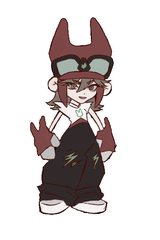
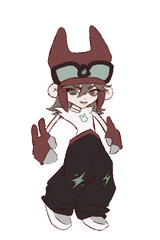
Artist's jump frames; hospital: drowsy just-woken face, captions low like subtitles (local)

Changed region(s): [[0.1875, 0.0583, 0.7812, 0.9625], [0.4375, 0.7, 0.5625, 0.7875]]

diff --git a/ArtSource/Story/make_hospital.py b/ArtSource/Story/make_hospital.py
@@ -10,7 +10,8 @@ import subprocess
 from io import BytesIO
 from pathlib import Path
 
-from PIL import Image
+import numpy as np
+from PIL import Image, ImageDraw
 
 HERE = Path(__file__).parent
 OUT = HERE.parent.parent / "Assets/Story/Art/Ending_Hospital.png"
@@ -19,6 +20,27 @@ BLANKET = re.compile(r'\s*<path d="M780 640[^>]*/>')
 PATIENT = re.compile(r'\s*<ellipse cx="760"[^>]*/>\s*<path d="M708 575[^>]*/>|\s*<path d="M742 588[^>]*/>')
 # Pulled up over the player's lap.
 NEW_BLANKET = '<path d="M672 668 C700 640 790 628 880 632 C1000 600 1200 590 1390 640 L1390 700 L672 700 Z" fill="#d7e9f2" stroke="#3c4645" stroke-width="7" stroke-linejoin="round"/>'
+SKIN, LINE = (243, 231, 227), (63, 16, 8)
+
+
+def drowsy(player):
+    """Just woken, worn out, relieved: heavy half-closed lids over the eyes, and a small tired
+    mouth instead of the smirk. Coordinates are in Player_Cutout.png."""
+    a = np.asarray(player).copy()
+    for (x0, x1, top, lid) in ((98, 121, 161, 169), (153, 171, 164, 171)):
+        mask = Image.new("L", player.size)
+        ImageDraw.Draw(mask).polygon([(x0, top), (x1, top), (x1, lid), ((x0 + x1) / 2, lid + 1), (x0, lid)], fill=255)
+        m = np.asarray(mask) > 0
+        a[m, :3] = (228, 210, 208)  # lid: a shade darker than the face
+    player = Image.fromarray(a)
+    d = ImageDraw.Draw(player)
+    for (x0, x1, lid) in ((98, 121, 169), (153, 171, 171)):
+        d.line([(x0, lid - 1), ((x0 + x1) / 2, lid + 1), (x1, lid)], fill=LINE, width=3, joint="curve")
+    d.rectangle([125, 189, 151, 202], fill=SKIN)
+    d.line([(133, 197), (138, 198), (143, 197)], fill=LINE, width=2, joint="curve")
+    return player
+
+
 # Hat to waist in Player_Cutout.png, and where it goes (in the 1920x1080 drawing).
 CROP_ROWS, TOP, CENTRE_X, HEIGHT = 300, 330, 765, 330
 
@@ -38,7 +60,7 @@ def render(text):
 
 room, blanket = render(room_svg), render(blanket_svg)
 s = W * UP / 1920
-player = Image.open(HERE / "Player_Cutout.png").convert("RGBA")
+player = drowsy(Image.open(HERE / "Player_Cutout.png").convert("RGBA"))
 player = player.crop((0, 0, player.width, CROP_ROWS))
 k = HEIGHT * s / CROP_ROWS
 player = player.convert("RGBa").resize((round(player.width * k), round(CROP_ROWS * k)), Image.LANCZOS).convert("RGBA")

diff --git a/ArtSource/Story/make_characters.py b/ArtSource/Story/make_characters.py
@@ -71,8 +71,18 @@ for w in walk:
     canvas.alpha_composite(big, (round(FEET[0] - centre * scale), round(FEET[1] - ground * scale)))
     walk_frames.append(canvas)
 save(walk_frames, "Player", "Player_Walk")
-# Played once, holding the last frame: push off, stretch, float, fall.
-save([pose(1.1, 0.88), pose(0.9, 1.12), pose(0.97, 1.04), pose(1.0, 1.0, -3)], "Player", "Player_Jump")
+# The artist's jump (Jump/Jump_0..3): crouch, launch, peak, reaching down to land. Played once,
+# holding the last frame while falling. The physics already moves the body up and down, so each
+# frame keeps the head where the standing pose has it and only the body and legs change.
+jump_frames = []
+for i in range(4):
+    j = Image.open(HERE / f"Jump/Jump_{i}.png").convert("RGBA")
+    j = j.crop(j.getbbox())
+    big = resize(j, j.width * scale, j.height * scale)
+    canvas = Image.new("RGBA", CANVAS)
+    canvas.alpha_composite(big, (round(FEET[0] - hat_x(j) * scale), FEET[1] - BODY))
+    jump_frames.append(canvas)
+save(jump_frames, "Player", "Player_Jump")
 pale = tint(src, (170, 190, 235), 0.25)
 save([pose(1.04, 0.94, 0, 0, d, pale) for d in (-4, 4, -3, 3)], "Player", "Player_Scare")
 

diff --git a/Assets/Story/Scripts/EndingDirector.cs b/Assets/Story/Scripts/EndingDirector.cs
@@ -414,7 +414,8 @@ public class EndingDirector : MonoBehaviour
             t.gameObject.SetActive(false);
         box.gameObject.SetActive(false);
 
-        captionText = Label(root.transform, "Caption", font, 44, TextAnchor.MiddleCenter, new Vector2(0.1f, 0.4f), new Vector2(0.9f, 0.6f));
+        // Low on the screen, like subtitles, so it never sits on a face.
+        captionText = Label(root.transform, "Caption", font, 44, TextAnchor.MiddleCenter, new Vector2(0.1f, 0.05f), new Vector2(0.9f, 0.2f));
         captionText.fontStyle = FontStyle.Italic;
         captionText.color = new Color(1f, 1f, 1f, 0f);
         // Dark edge so the words read on the bright hospital as well as on black.

diff --git a/ArtSource/Story/cut_black.py b/ArtSource/Story/cut_black.py
@@ -1,4 +1,4 @@
-"""Cuts a drawing off a pure black background and adds the white sticker outline.
+"""Cuts a drawing off a pure black (or transparent) background and adds the white sticker outline.
 
     python -I ArtSource/Story/cut_black.py in.png out.png
 """
@@ -6,9 +6,10 @@ import sys
 from collections import deque
 import numpy as np
 from PIL import Image, ImageFilter
-a = np.asarray(Image.open(sys.argv[1]).convert('RGB')).astype(int)
+src = np.asarray(Image.open(sys.argv[1]).convert('RGBA')).astype(int)
+a = src[..., :3]
 H, W, _ = a.shape
-bgc = a.max(axis=2) <= 6
+bgc = (a.max(axis=2) <= 6) | (src[..., 3] < 128)
 seen = np.zeros((H, W), bool)
 q = deque()
 for y in range(H):
